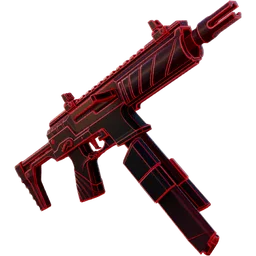
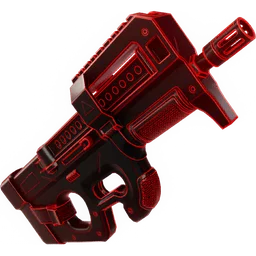
Swap SMG art, add Twin Siphon Shotgun and Foundation's Rift Rifle to exotics
Claude-Session: https://claude.ai/code/session_016C5iyMkkRVbw6pm8N7C8jv

diff --git a/reload-tracker.html b/reload-tracker.html
@@ -180,7 +180,7 @@ footer { margin-top: 36px; display: flex; flex-wrap: wrap; gap: 10px 16px; align
   var EXOTICS = [
     ["Heisted Explosive AR"],["Heisted Breacher Shotgun"],["Heisted Blink Mag SMG"],["Heisted Run 'N' Gun SMG"],["Lawless Accelerant Holo-Twister AR"],["Lawless Trinity AR"],["Lawless Twinfire Slap Shotgun"],["Lawless Explosive Mammoth Pistol"],["Lawless Tracking Sniper"],
     ["Lawless Stink Rifle"],["Lawless Shockwave RPG"],["Unstable Frostfire Shotgun"],["Unstable Yoink Shotgun"],["Unstable Voltage Burst Pistol"],["Unstable Thunderclap DMR"],["Eradicator O.X.R. Rifle"],["Eradicator Hop Rock Fury AR"],["Eradicator Shadow Precision SMG"],
-    ["Eradicator Marksman Wrecker Revolver"],["Eradicator Shock 'N' Slow Launcher"],["The Dub"],["Hop Rock Dualies"],["Shadow Tracker"],["Spicy Slapperoni Pizza",1],["Golden Apple",1],["Lawless Slap Jug",1],["Lawless Slap Cannon",1],["Double Trouble Pump Shotgun",1],["Boom Sniper Rifle",1]
+    ["Eradicator Marksman Wrecker Revolver"],["Eradicator Shock 'N' Slow Launcher"],["The Dub"],["Hop Rock Dualies"],["Shadow Tracker"],["Spicy Slapperoni Pizza",1],["Golden Apple",1],["Lawless Slap Jug",1],["Lawless Slap Cannon",1],["Double Trouble Pump Shotgun",1],["Boom Sniper Rifle",1],["Twin Siphon Shotgun"],["The Foundation's Rift Rifle"]
   ];
   // r: m = mythic, e = exotic (card colour in the source image)
   var CHESTS = [
@@ -206,7 +206,7 @@ footer { margin-top: 36px; display: flex; flex-wrap: wrap; gap: 10px 16px; align
     return "Rifle";
   }
   var HAS_IMG = {};
-  ["goldenapple","julesglidergun","thefoundationsriftrifle","nightrosesveiledprecisionsmg","enhancedsentinelshotgun","enhancedsurgefiresmg","enhancedtwinfireautoshotgun","enhancedonishotgun","enhancedhavocshotgun","cerberusgatekeepershotgun","sidewaysminigun","sidewaysrifle","enhancedfuryar","enhancedholotwisterar","baronsdoubledownpistol","lawlessaccelerantholotwisterar","unstablethunderclapdmr","boomsniperrifle","unstablevoltageburstpistol","lawlessexplosivemammothpistol","lawlesstrackingsniper","lawlessstinkrifle","eradicatorshocknslowlauncher","lawlessshockwaverpg","lawlessslapcannon","lawlessslapjug","exoticslapberryfizz","precisionairstrike","spicyslapperonipizza","unstableyoinkshotgun","unstablefrostfireshotgun","eradicatorshadowprecisionsmg","doubletroublepumpshotgun","lawlesstwinfireslapshotgun","heistedbreachershotgun","eradicatormarksmanwreckerrevolver","heistedexplosivear","eradicatoroxrrifle","eradicatorhoprockfuryar","brutusminigun","mythicshockwavehammer","skyesgrappler","mythicgoldfish","thefoundationspowergloves","zeushuntressdmr","kitsshockwavelauncher","lawlesstrinityar","mythicvector7dmr","brutustwinhammershotguns","mythicpinpointpistol","overclockedpulserifle","hushsdeadeyear","hoprockcuberifle","lawlessriftrifle","reachersextendingfocusshotgun","overdrivetacticalpistol","thornesscopedburstsmg","thedub","hoprockdualies","heistedblinkmagsmg","heistedrunngunsmg","bigfootsflexsmg","hadesharbingersmg"].forEach(function (k) { HAS_IMG[k] = 1; });
+  ["goldenapple","julesglidergun","thefoundationsriftrifle","nightrosesveiledprecisionsmg","enhancedsentinelshotgun","enhancedsurgefiresmg","enhancedtwinfireautoshotgun","enhancedonishotgun","enhancedhavocshotgun","cerberusgatekeepershotgun","sidewaysminigun","sidewaysrifle","enhancedfuryar","enhancedholotwisterar","baronsdoubledownpistol","lawlessaccelerantholotwisterar","unstablethunderclapdmr","boomsniperrifle","unstablevoltageburstpistol","lawlessexplosivemammothpistol","lawlesstrackingsniper","lawlessstinkrifle","eradicatorshocknslowlauncher","lawlessshockwaverpg","lawlessslapcannon","lawlessslapjug","exoticslapberryfizz","precisionairstrike","spicyslapperonipizza","unstableyoinkshotgun","unstablefrostfireshotgun","eradicatorshadowprecisionsmg","doubletroublepumpshotgun","lawlesstwinfireslapshotgun","heistedbreachershotgun","eradicatormarksmanwreckerrevolver","heistedexplosivear","eradicatoroxrrifle","eradicatorhoprockfuryar","brutusminigun","mythicshockwavehammer","skyesgrappler","mythicgoldfish","thefoundationspowergloves","zeushuntressdmr","kitsshockwavelauncher","lawlesstrinityar","mythicvector7dmr","twinsiphonshotgun","mythicpinpointpistol","overclockedpulserifle","hushsdeadeyear","hoprockcuberifle","lawlessriftrifle","reachersextendingfocusshotgun","overdrivetacticalpistol","thornesscopedburstsmg","thedub","hoprockdualies","heistedblinkmagsmg","heistedrunngunsmg","bigfootsflexsmg","hadesharbingersmg"].forEach(function (k) { HAS_IMG[k] = 1; });
   function initials(n) {
     var w = n.replace(/\(.*?\)/g, "").split(/\s+/).filter(function (x) { return !/^(the|of|n|'n')$/i.test(x); });
     var s = (w[0] || "?")[0] + ((w[1] || "")[0] || "");
